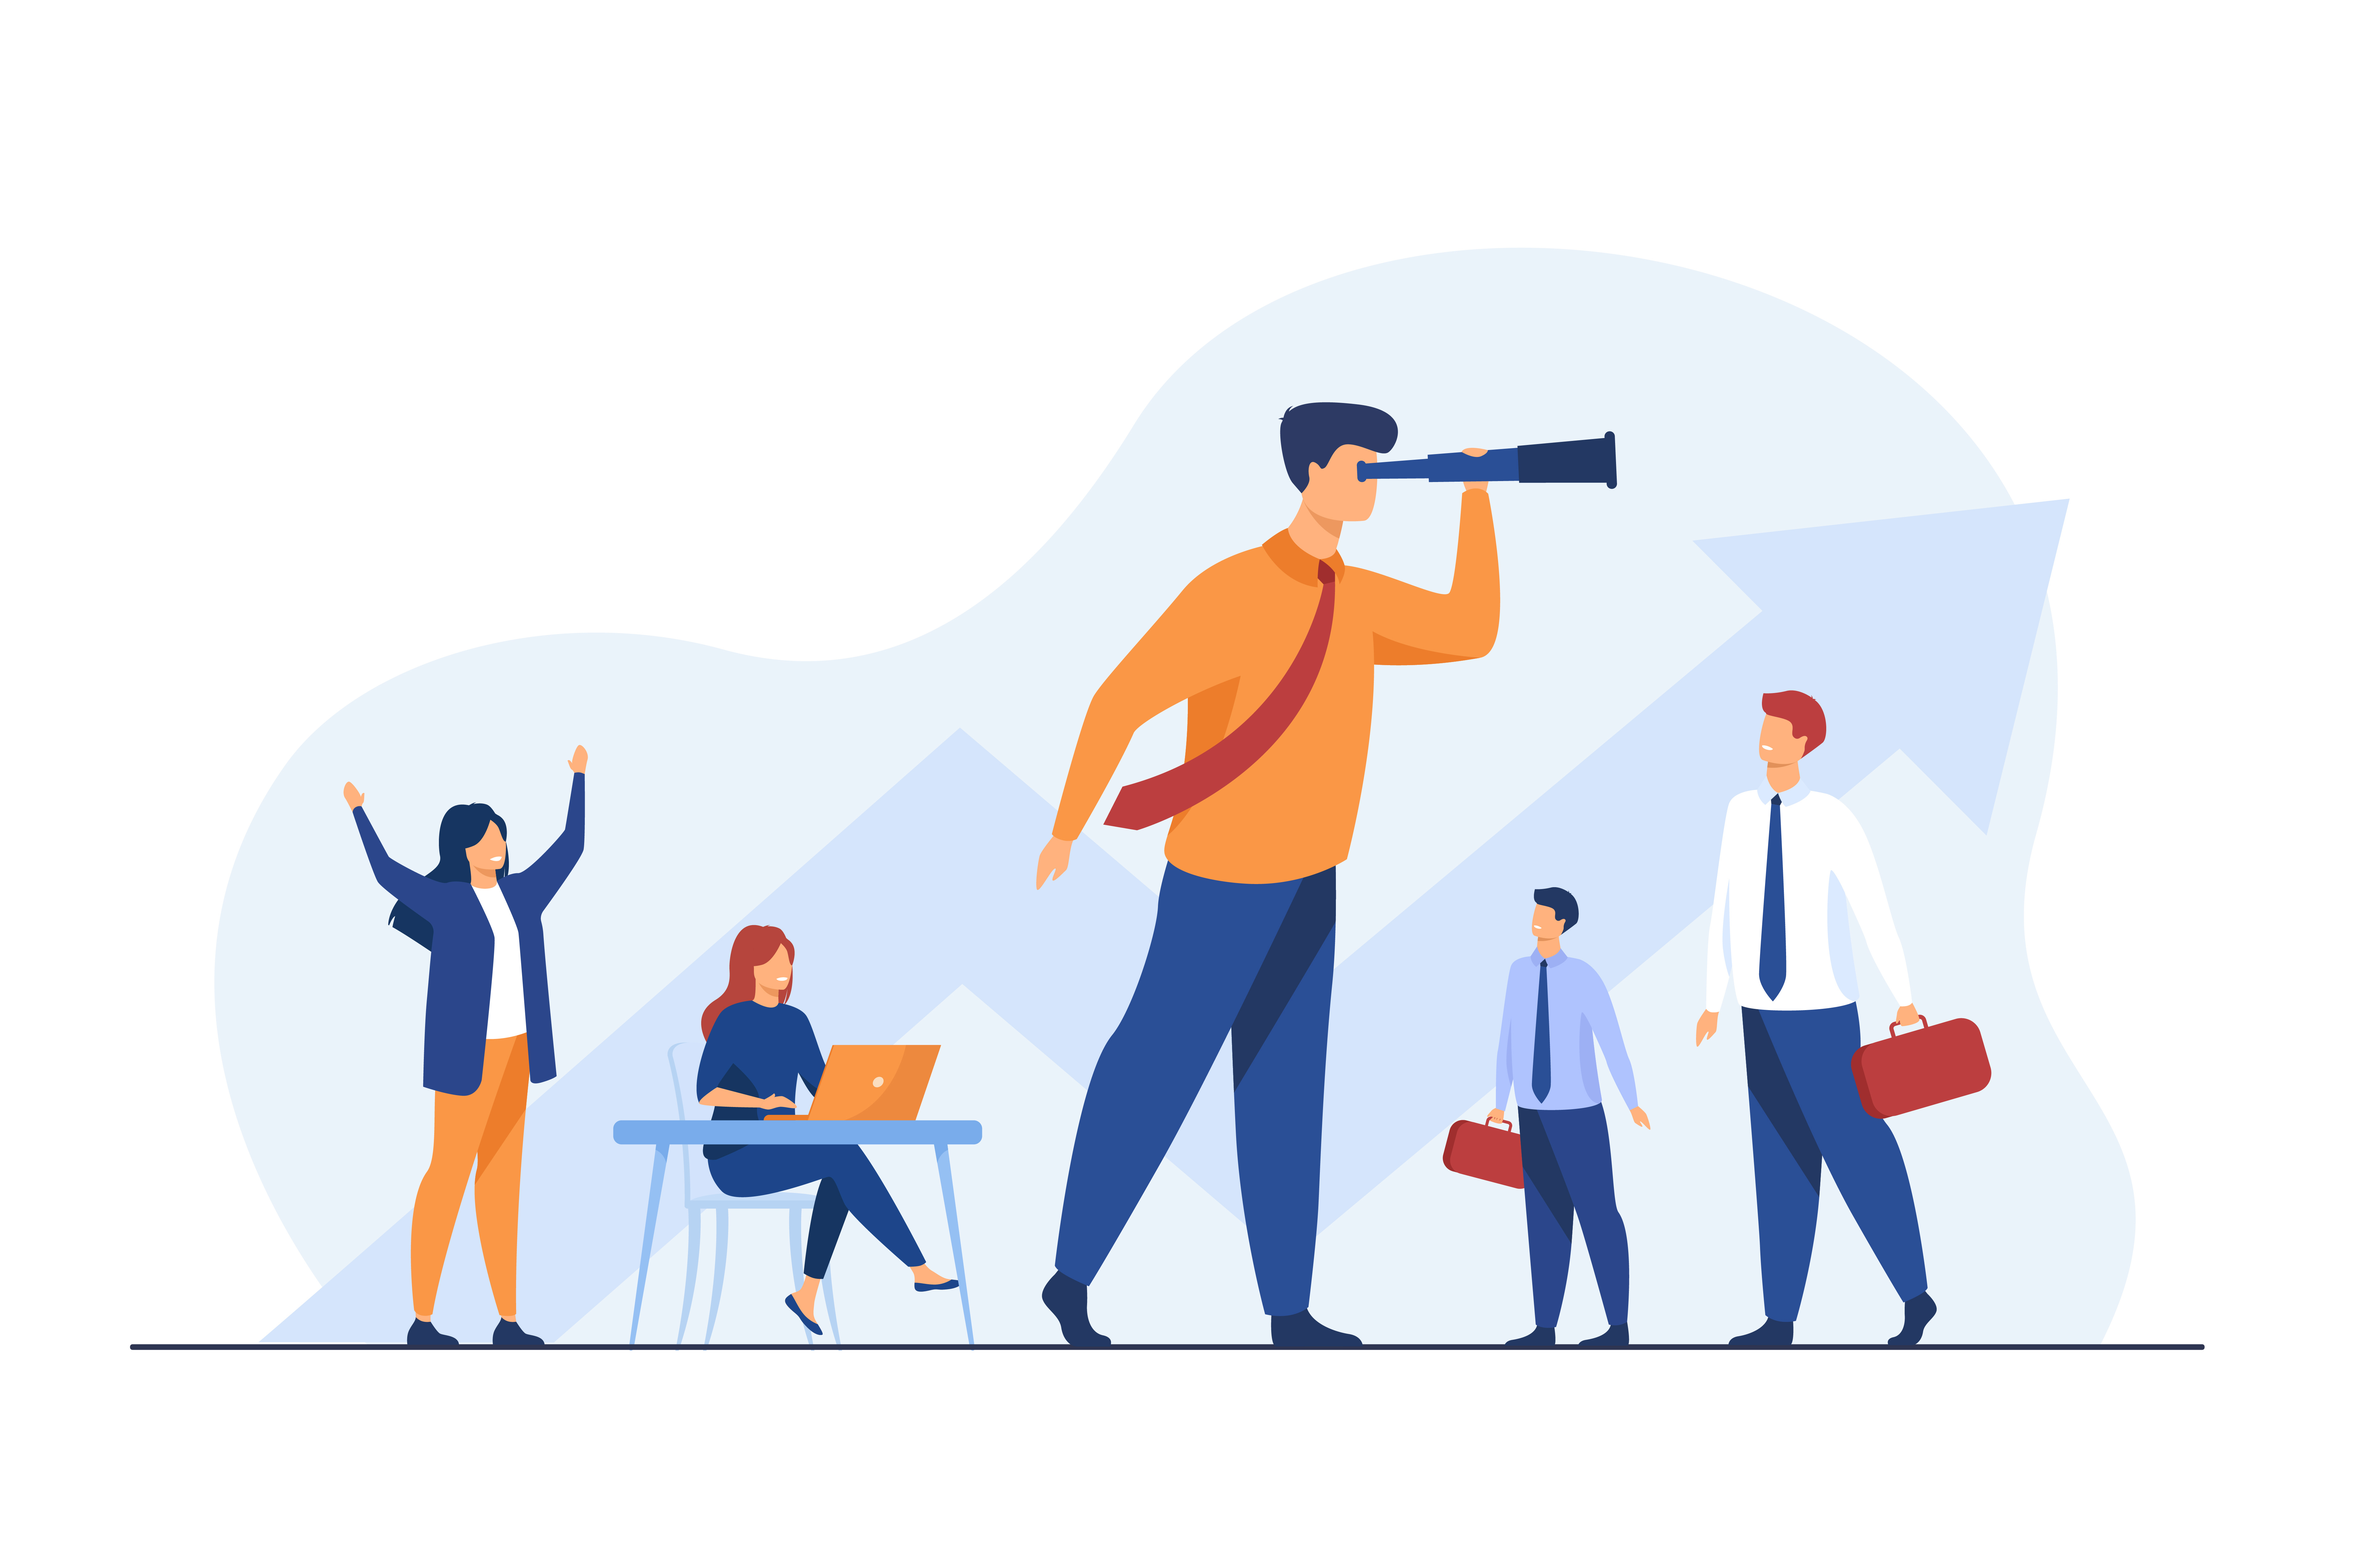
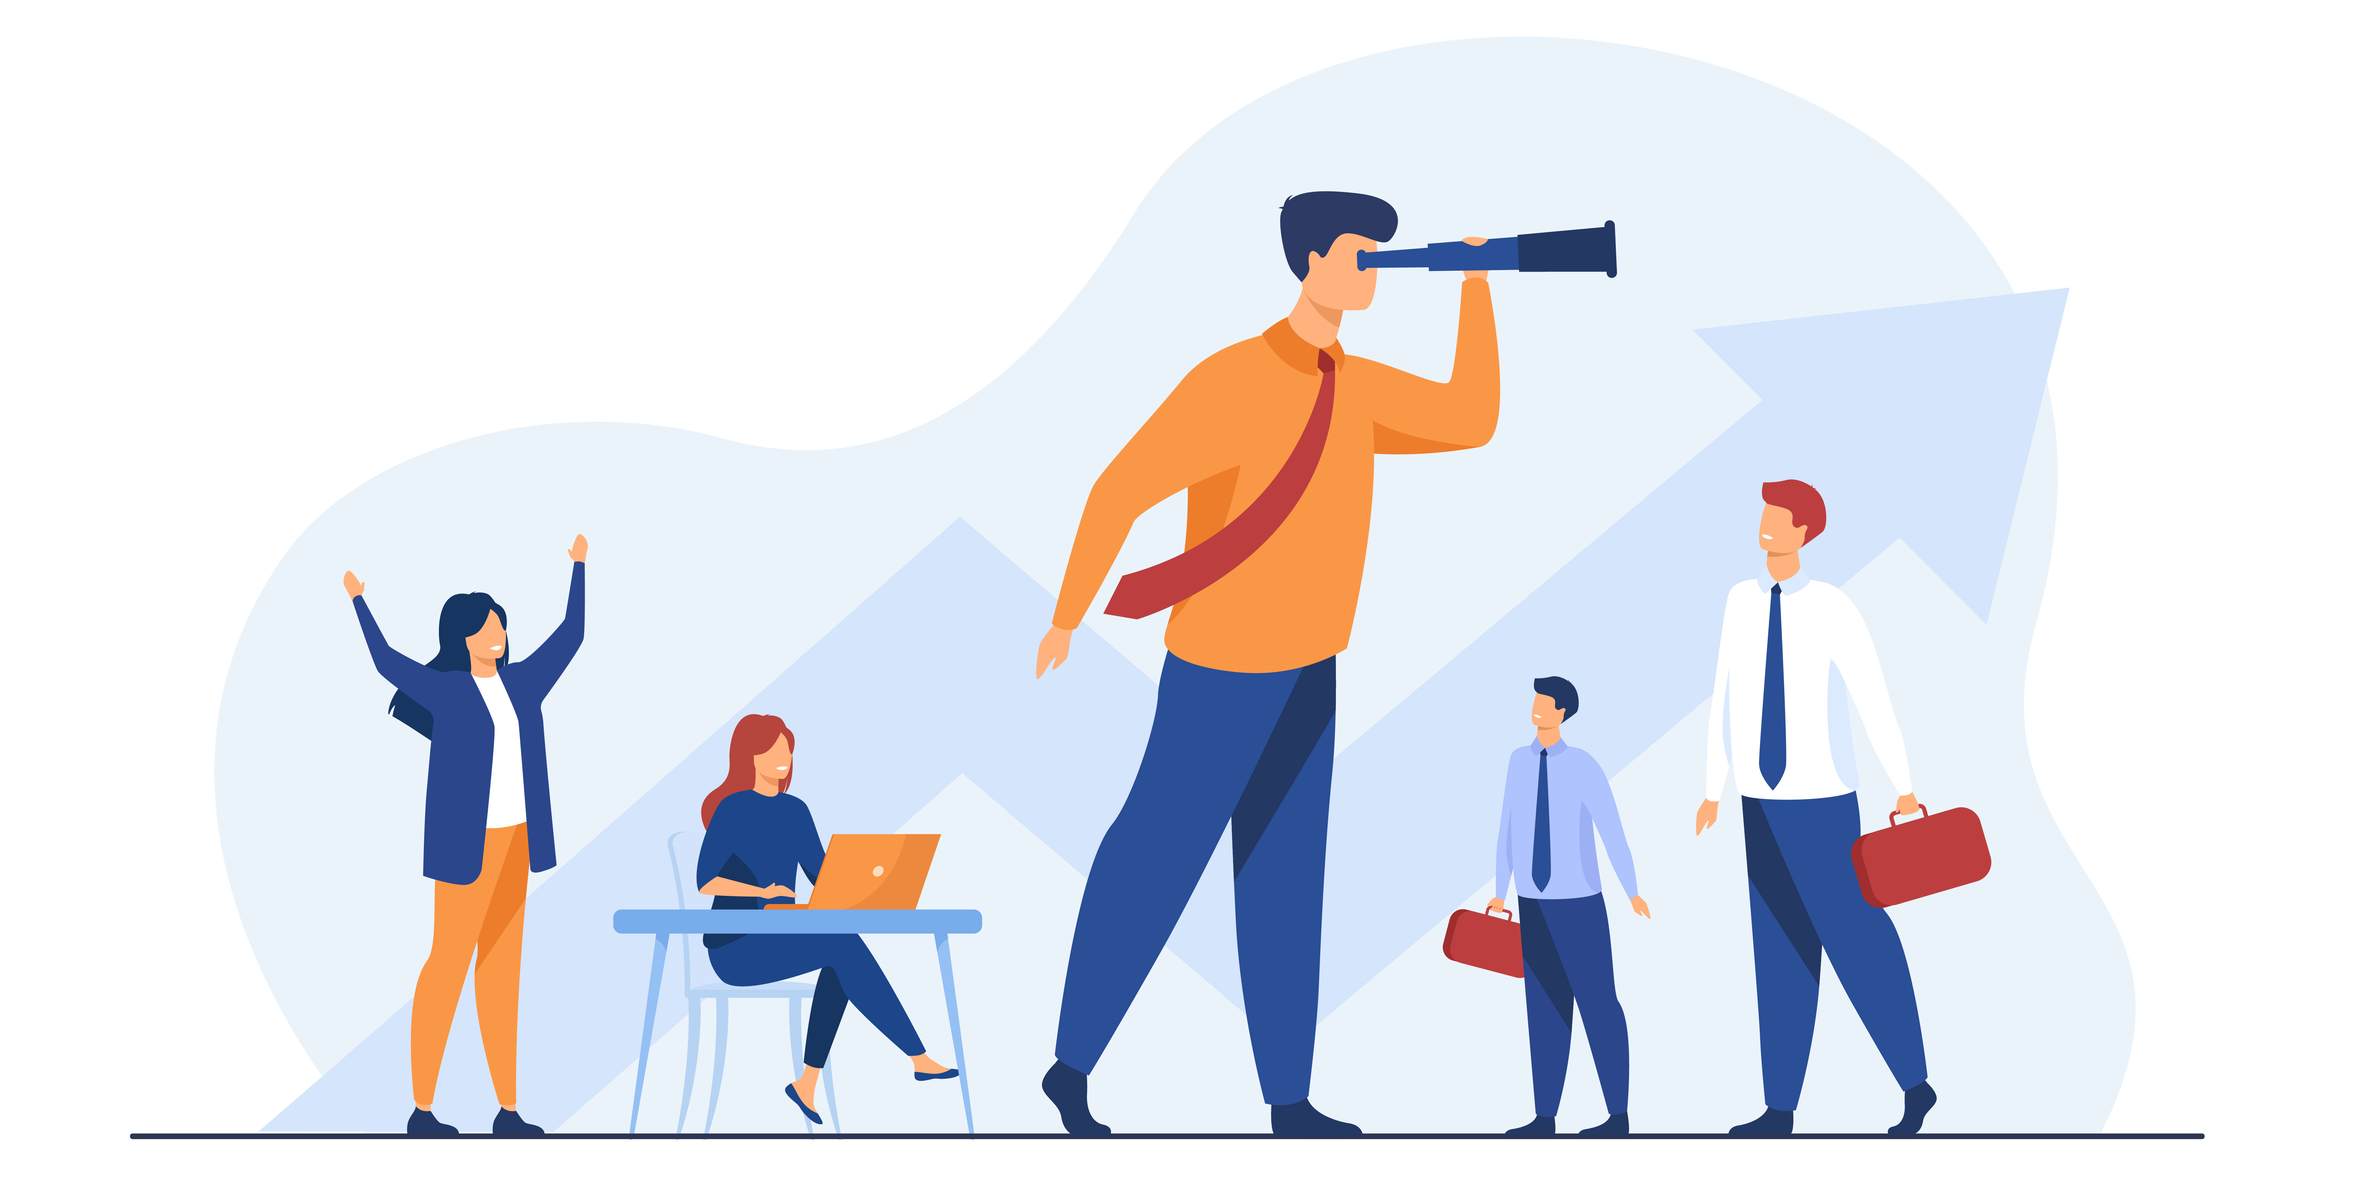
initial build

diff --git a/index.html b/index.html
@@ -37,7 +37,7 @@
             <p>Explore feed knows that you need, base on your career intersts, will find you what you are searching fot. And dont wory about too many oppportunities, you can always save them for later.</p>
             <button class="getstarted">Get Started Now</button>
         </div>
-        <img class="pic1" src="/resources/pics/1looking.jpg" alt="">
+        <img class="pic1" src="/resources/pics/looking.jpg" alt="">
     </section>
 
     <section class="section2">

diff --git a/css/style.css b/css/style.css
@@ -179,18 +179,19 @@ h2 {
 }
 
 .pic1 {
-    width: 619px;
-    height: 390px;
+    width: 630px;
+    height: 335px;
+    padding: 10px 0px;
 }
 
 .pic2 {
-    width: 450px;
-    height: 450px;
+    width: 435px;
+    height: 435px;
 }
 
 .pic3 {
-    width: 680px;
-    height: 460px;
+    width: 660px;
+    height: 440px;
 }
 
 .getstarted {
